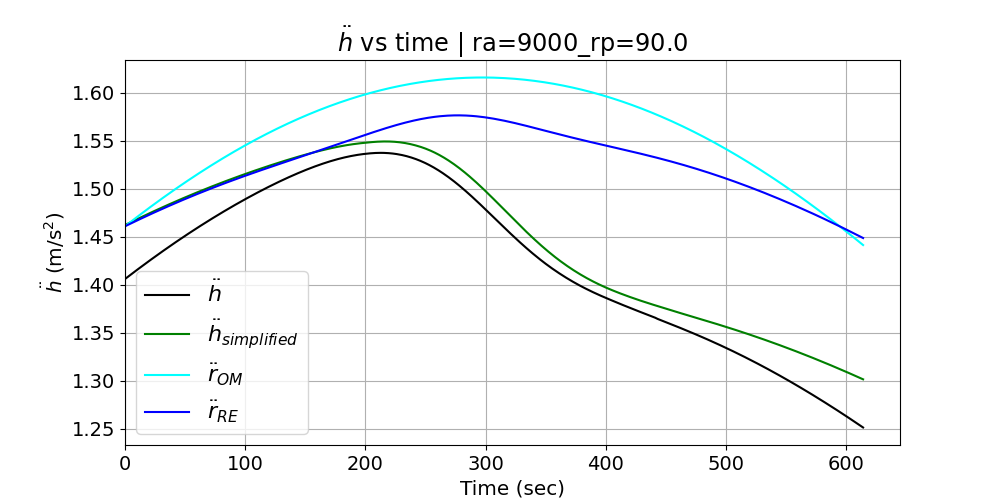
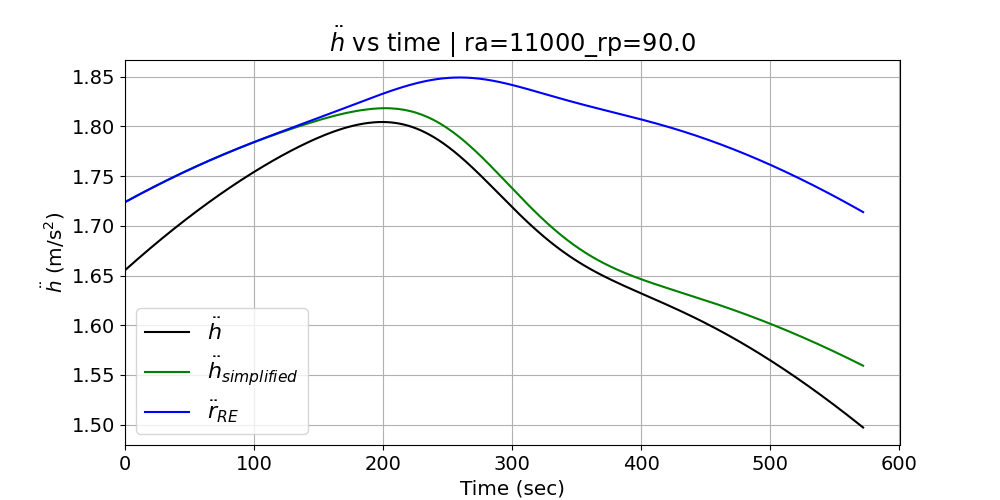
can parse single file

diff --git a/main2_0.py b/main2_0.py
@@ -30,10 +30,9 @@ CL_0=0.1
 Sref=11 #m^2
 
 #change path to appropriate folder
-folder='9000'
-folder2='Results_ctrl=0_ra=9000_rp=90.0_hl=0.1_90deg'
+folder2='Results_ctrl=0_ra=11000_rp=90.0_hl=0.150_90.0deg'
 
-directory = "DragPassageResults/"+folder+"/"+folder2
+directory = "ClosedFormSol_MarsGram/"+folder2
 
 #check each folder in the results folder
 for file in sorted(os.listdir(directory)):
@@ -43,10 +42,11 @@ for file in sorted(os.listdir(directory)):
 
     files = data_gathering(csv_file)
     #altitude
-    h_sim, v_sim, y_sim, f_sim, a_sim, e_sim, r_sim, t_sim, rho_sim = files[0:9]
-
-    h0,v0,y0,f0,a0,e0,r0,t0,rho0 = files[9]
-    hf,vf,yf,ff,af,ef,rf,tf,rhof = files[10]
+    h_sim, v_sim, y_sim, f_sim, a_sim, e_sim, r_sim, t_sim, rho_sim, energy_sim = files[0:10]
+        
+    h0,v0,y0,f0,a0,e0,r0,t0,rho0,energy0 = files[10]
+    hf,vf,yf,ff,af,ef,rf,tf,rhof, energyf = files[11]
+    
     
     index = np.argmin(h_sim)    
     #periapsis data using altitude
@@ -448,7 +448,7 @@ ax1.plot(t_simulation,tot_error,color='green', label="$Error$")
 # ax1.plot([delta_t_lamb,delta_t_lamb], [np.max(tot_error), np.min(tot_error)], "--")
 ax1.plot(np.add(x,delta_t_lamb/2), error_app, color='red', label="$Approximation$")
 
-ax1.set_title("Total error vs time | "+folder2[15:-13],size='xx-large')
+ax1.set_title("Total error vs time | "+folder2[15:-17],size='xx-large')
 ax1.set_xlim(0)
 ax1.set_ylabel("$(\ddot{h}_{simplified} - \ddot{r}_{RE}) / \ddot{r}_{RE}$ (m/s$^2$)",size='x-large')
 ax1.set_xlabel("Time (sec)",size='x-large')
@@ -472,14 +472,14 @@ ax2.plot(t_simulation,hddot_app,color='green', label="$\ddot{h}_{simplified}$")
 # ax2.plot(t_simulation,par_app,color='red', label="parabola approx")
 # ax2.plot(pt3[0],pt3[1], 'o',color='orange',markersize=10)
 
-ax2.plot(t_simulation, rddotOM, color='cyan', label="$\ddot{r}_{OM}$")
+# ax2.plot(t_simulation, rddotOM, color='cyan', label="$\ddot{r}_{OM}$")
 # ax2.plot(t_lamb, rddotLAMB, color='grey', label="$\ddot{r}_{Lambert}$")
 ax2.plot(t_lamb, rddotLAMB_w_LD, color='blue', label="$\ddot{r}_{RE}$")
 # ax2.plot(pt1[0],pt1[1], 'o',color='orange',markersize=10)
 # ax2.plot(pt2[0],pt2[1], 'o',color='orange',markersize=10)
 # ax2.plot(pt3[0],pt3[1], 'o',color='orange',markersize=10)
 # ax2.plot(tp_sim,hddot_ff[index],'o',color='orange',markersize=10)
-ax2.set_title("$\ddot{h}$ vs time | "+folder2[15:-13],size='xx-large')
+ax2.set_title("$\ddot{h}$ vs time | "+folder2[15:-17],size='xx-large')
 ax2.set_xlim(0)
 ax2.set_ylabel("$\ddot{h}$ (m/s$^2$)",size='x-large')
 ax2.set_xlabel("Time (sec)",size='x-large')
@@ -504,7 +504,7 @@ ax3.plot(t_simulation,vel_km6,label="Closed-Form Solution 6", color='red')
 
 ax3.plot(t_lamb, v_lambert, color='grey', label="$v_{Lambert}$")
 
-ax3.set_title("Velocity "+folder2[15:-13],size='x-large')
+ax3.set_title("Velocity "+folder2[15:-17],size='x-large')
 ax3.set_xlim(0)
 ax3.set_ylabel("Velocity (m/s)",size='x-large')
 ax3.set_xlabel("Time (sec)",size='x-large')
@@ -521,7 +521,7 @@ fig3, ax3=plt.subplots()
 ax3.plot(t_simulation,rho_sim,label="Simulation")
 ax3.plot(t_simulation, rho_exp_model, color='grey', label="$rho_{exp}$")
 
-ax3.set_title("Density "+folder2[15:-13],size='x-large')
+ax3.set_title("Density "+folder2[15:-17],size='x-large')
 ax3.set_xlim(0)
 ax3.set_ylabel("Density (kg/m$^3$)",size='x-large')
 ax3.set_xlabel("Time (sec)",size='x-large')
@@ -534,7 +534,7 @@ ax3.grid()
 fig3, ax3=plt.subplots()
 ax3.plot(t_simulation,drag_sim,label="Simulation")
 ax3.plot(t_simulation,drag_sim,label="Simulation")
-ax3.set_title("Drag "+folder2[15:-13],size='x-large')
+ax3.set_title("Drag "+folder2[15:-17],size='x-large')
 ax3.set_xlim(0)
 ax3.set_ylabel("Drag (N)",size='x-large')
 ax3.set_xlabel("Time (sec)",size='x-large')

diff --git a/data_corelation.py b/data_corelation.py
@@ -85,7 +85,7 @@ energy_diff90, energy_diff95, energy_diff100, energy_diff105, energy_diff110 = a
 
 
 print(energy90)
-print(energy_diff90)
+print(energy_diff90) 
 
 fig_acoeff = plt.figure("a_coeff", dpi=500, figsize=[6,4])
 plt.figure("a_coeff")
